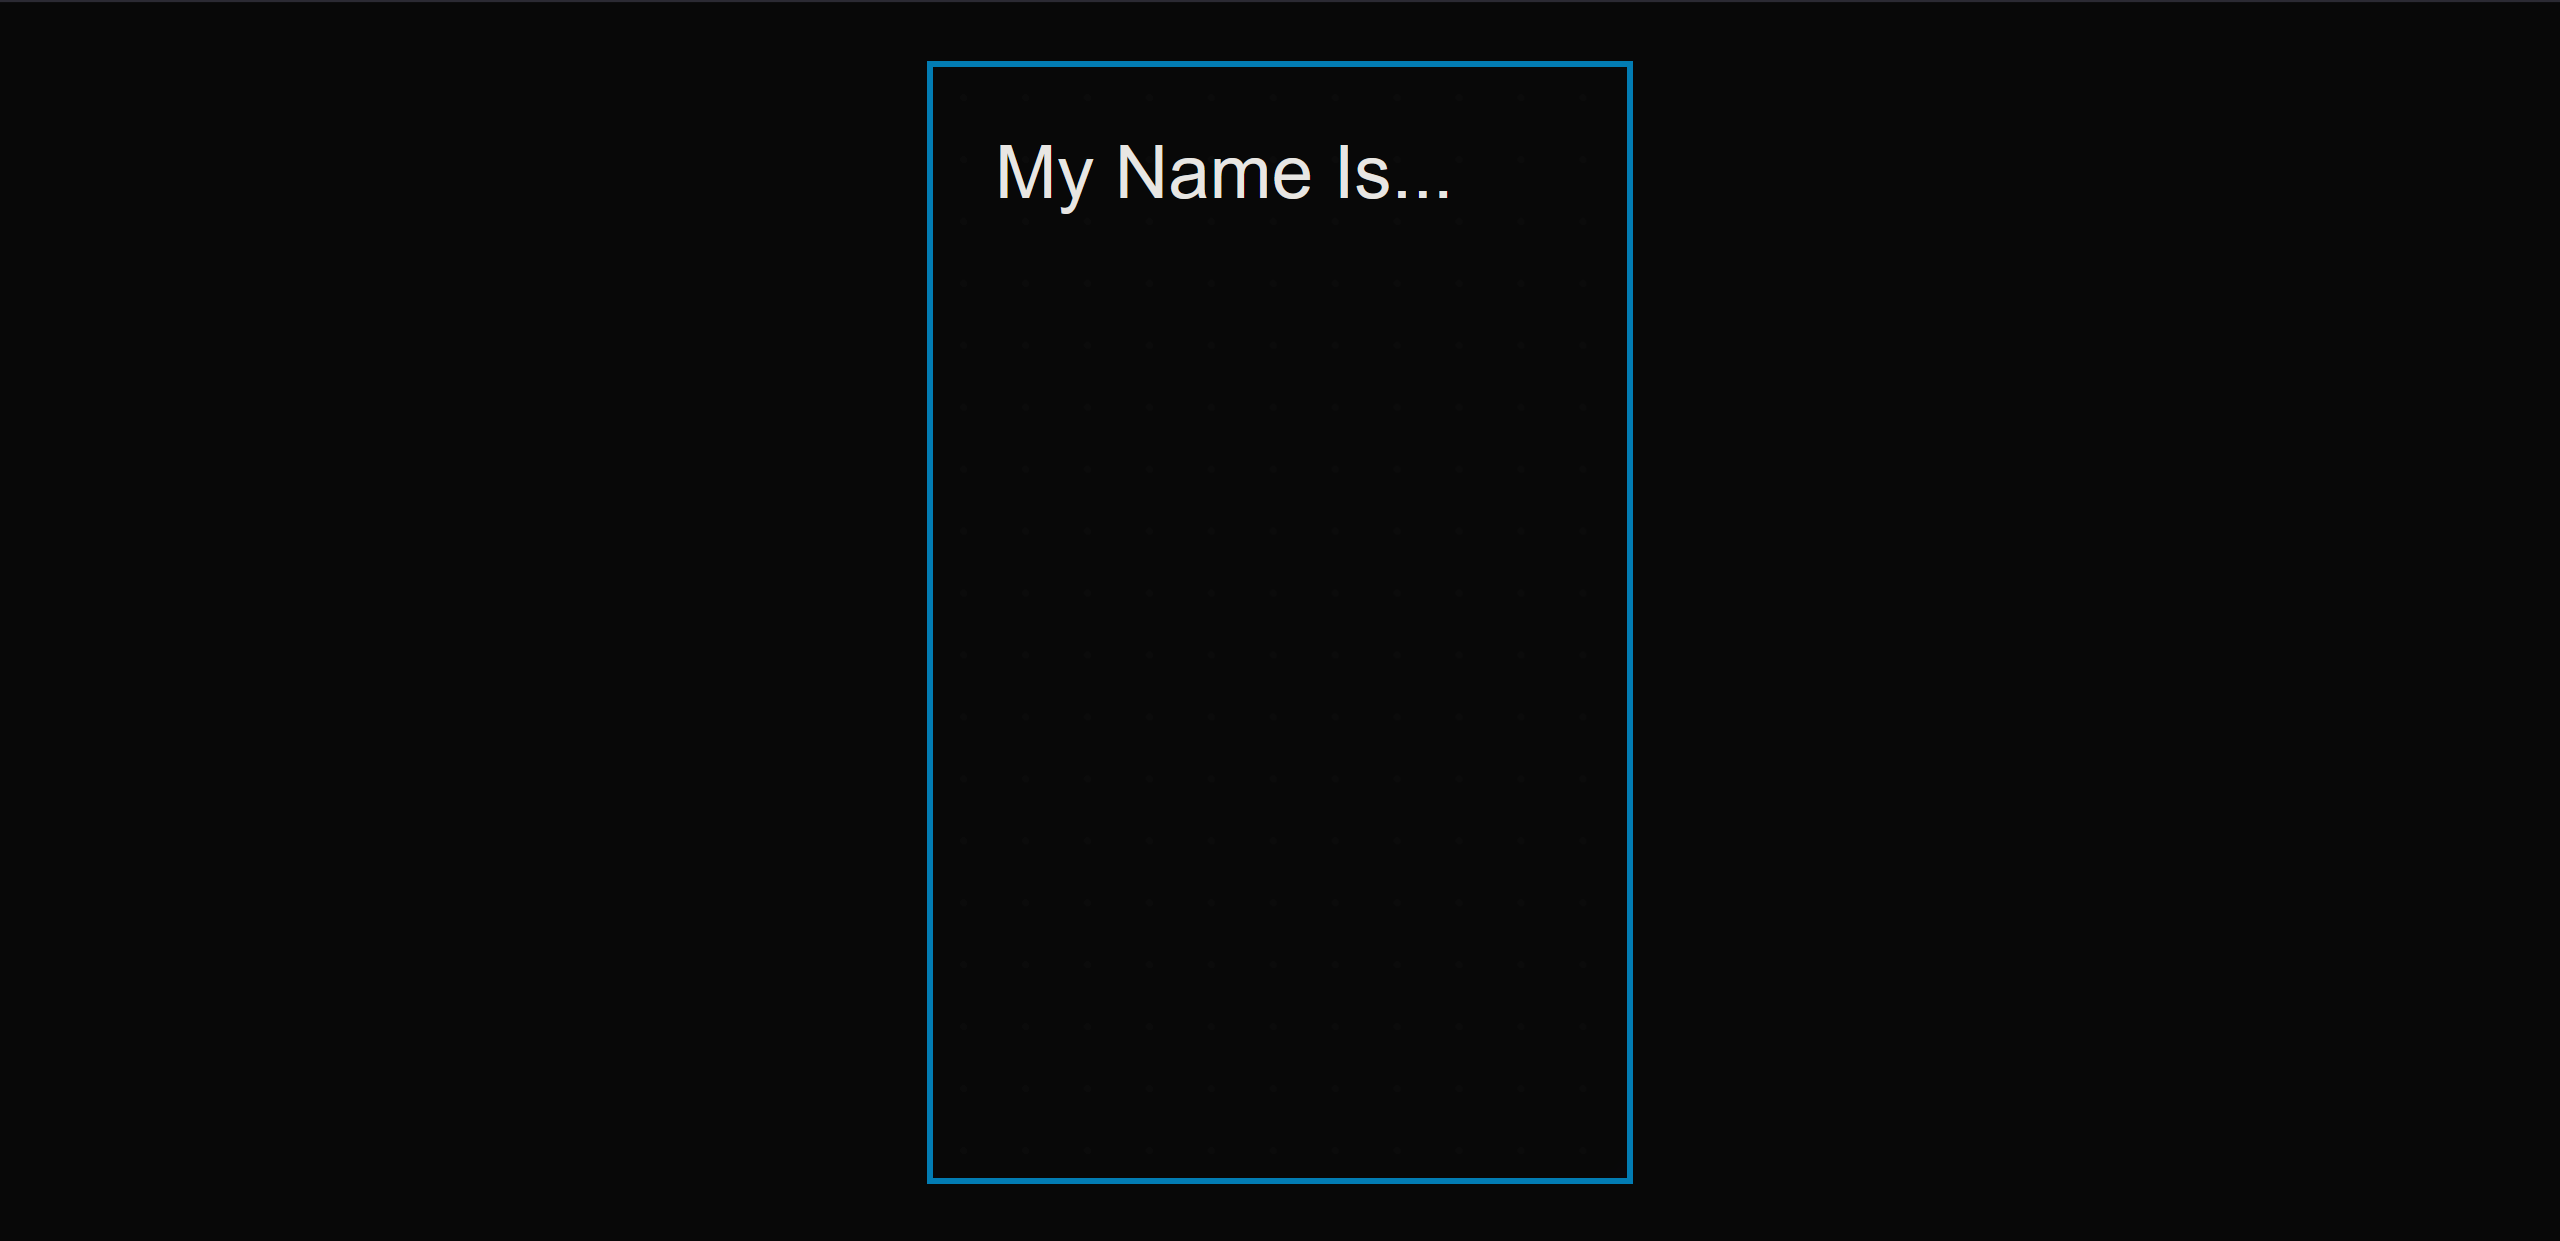
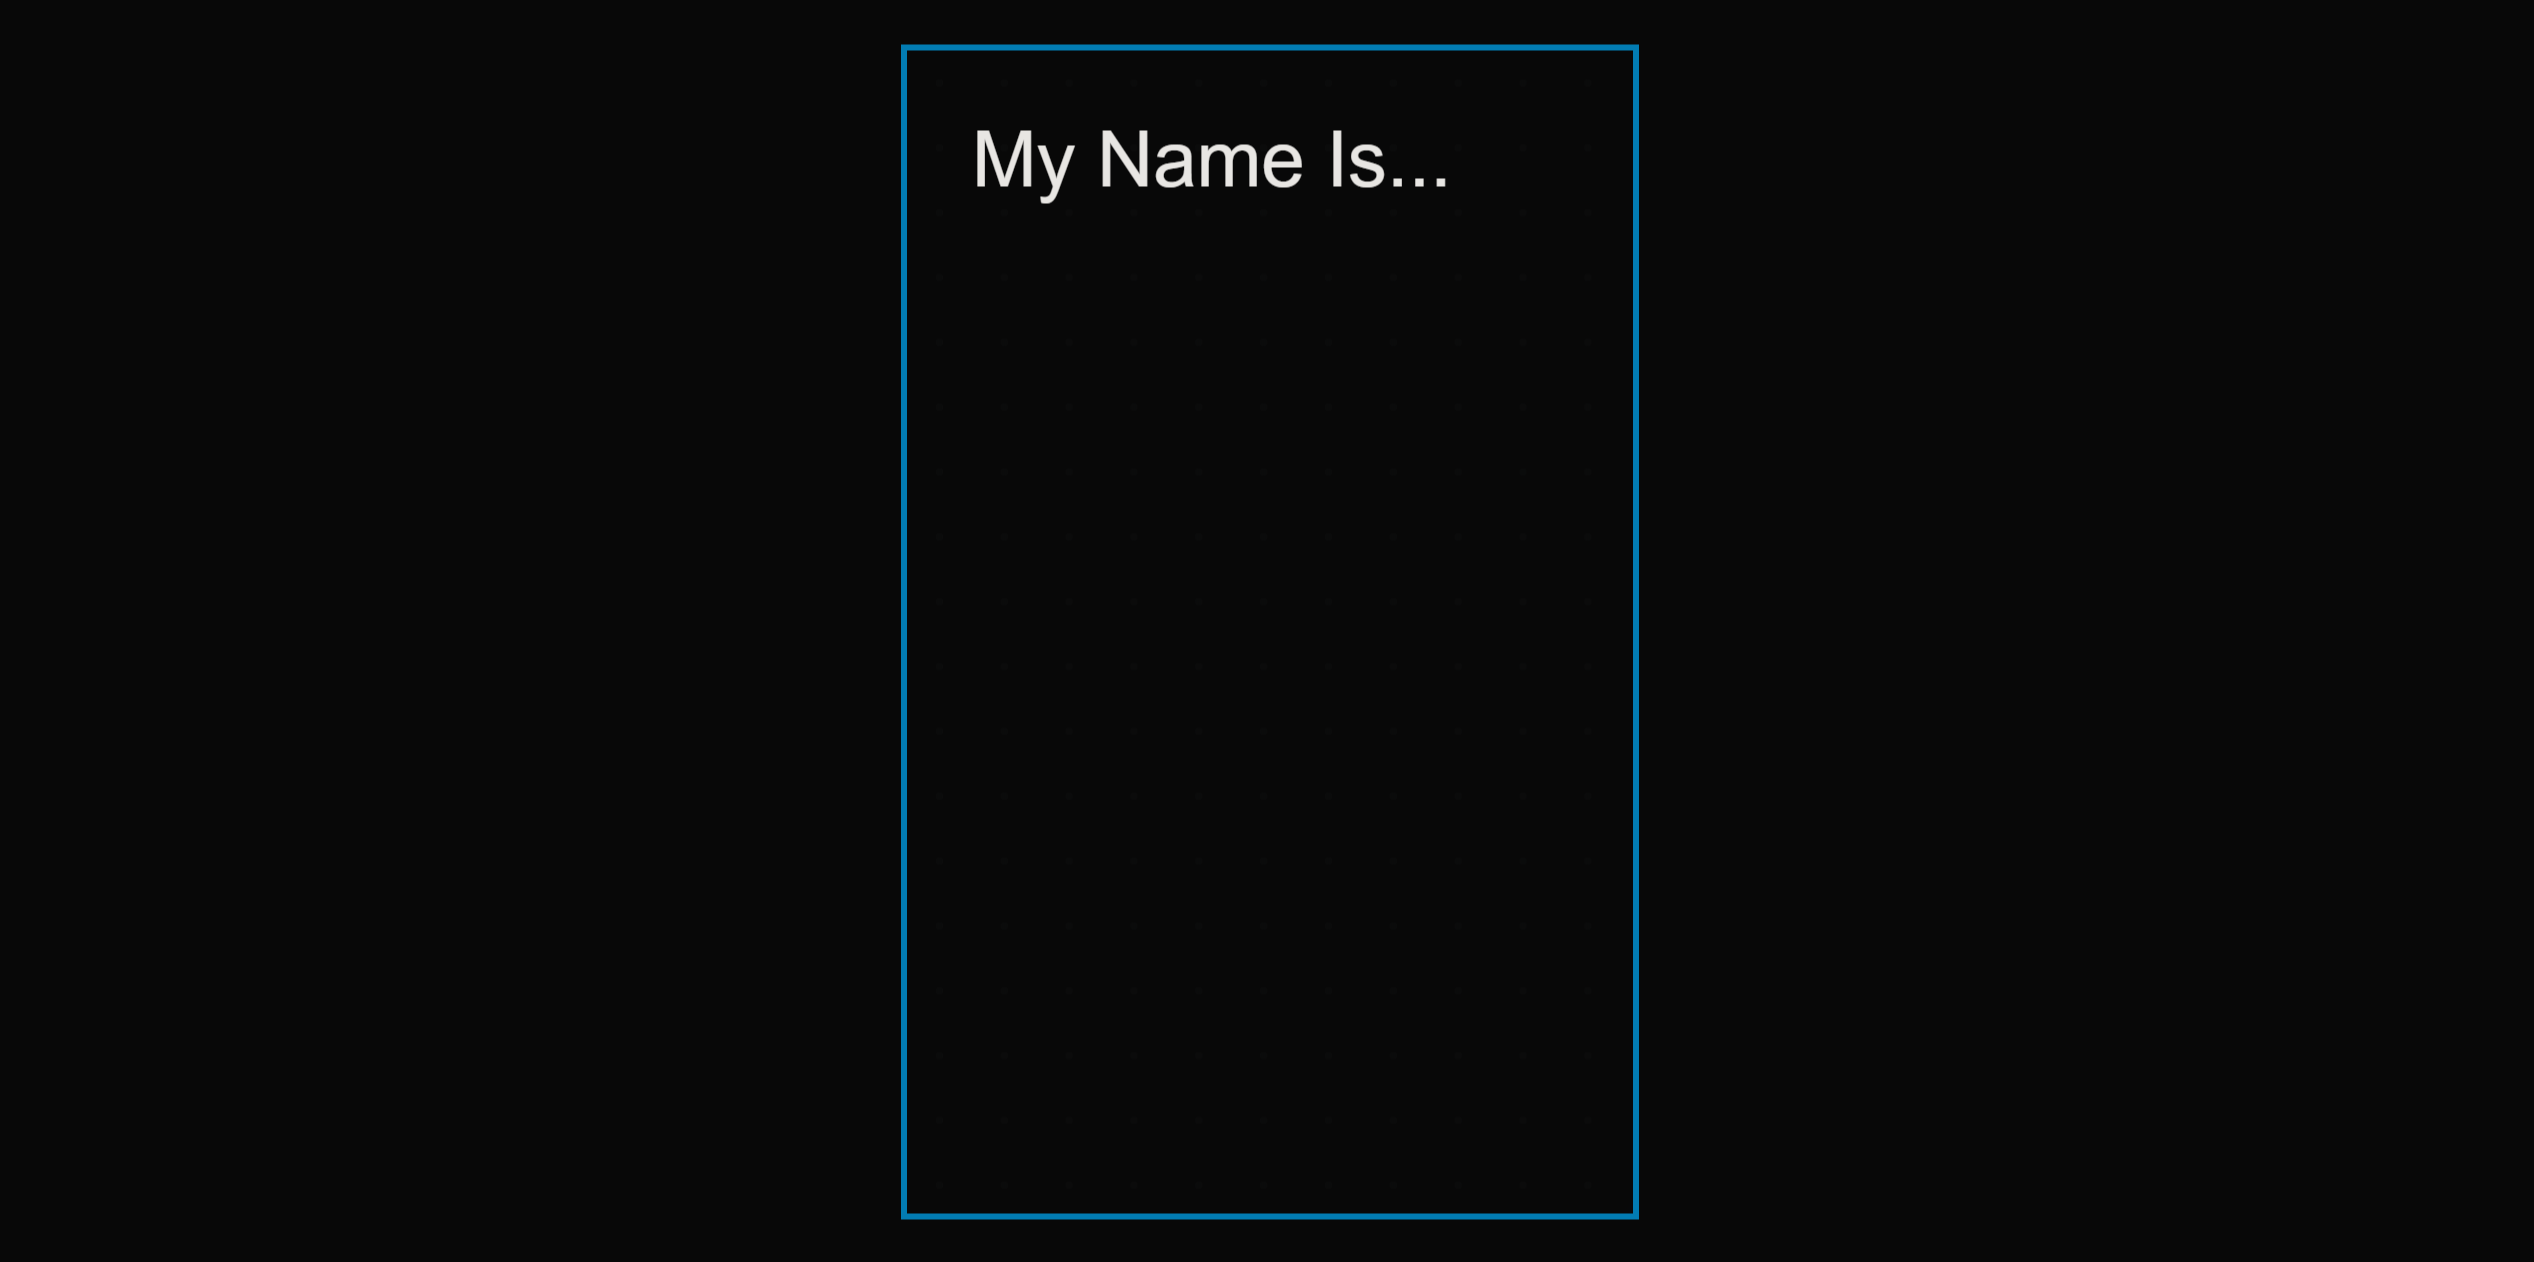
fix project height bug

Changed region(s): [[0.3429, 0.0306, 0.6547, 0.9799]]

diff --git a/css/style.css b/css/style.css
@@ -124,11 +124,11 @@ p {
 }
 .project-text {
   padding-top: 10px;
-  padding-bottom: 15px;
+  padding-bottom: 10px;
 }
 .project-photo {
   border-radius: 15px 15px 0px 0px;
-  height: 90%;
+  max-height: 100%;
   max-width: 100%;
 }
 .contact-container {
